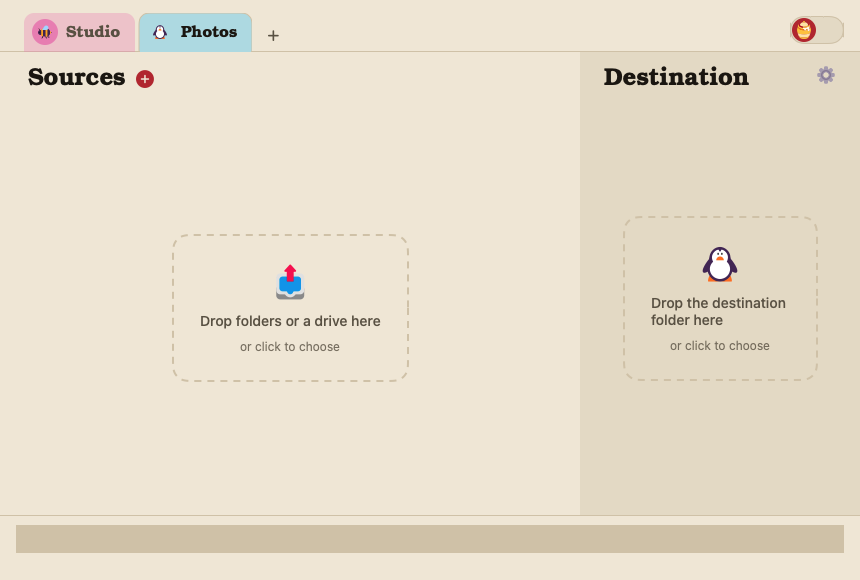
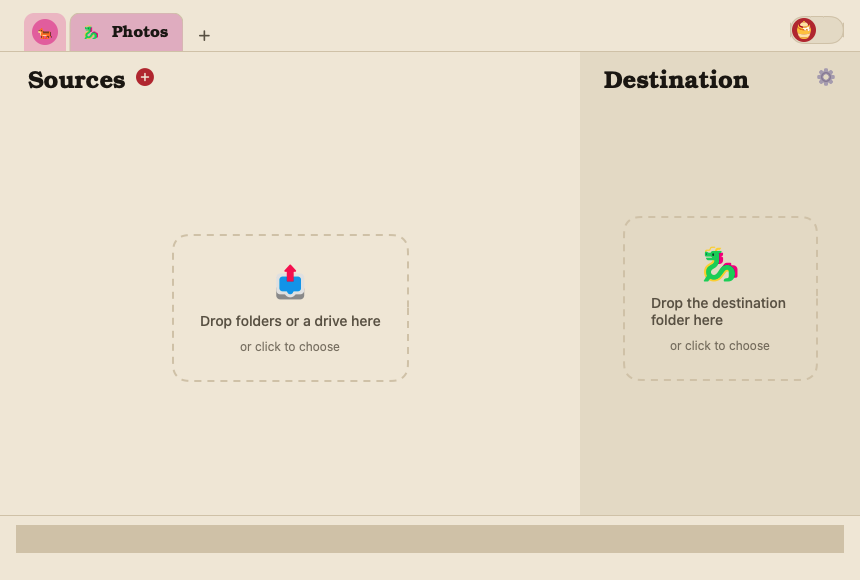
Archivist 0.0.13 — Tidier tabs and settings, biggest folders first, richer colours.

diff --git a/Archivist/JobView.swift b/Archivist/JobView.swift
@@ -48,7 +48,7 @@ struct JobView: View {
                             .contentShape(Rectangle())
                             .onTapGesture { showingSettings = false }   // a click outside closes it
                         SettingsSheet(view: self, close: { showingSettings = false })
-                            .frame(width: min(760, g.size.width - 32), height: min(700, g.size.height - 32))   // never hangs past the window
+                            .frame(width: min(560, g.size.width - 32), height: min(700, g.size.height - 32))   // never hangs past the window
                             .clipShape(RoundedRectangle(cornerRadius: 12))
                             .shadow(color: .black.opacity(0.25), radius: 20, y: 6)
                     }
@@ -110,6 +110,16 @@ struct JobView: View {
             if comps.count > 2, comps[1] == "Volumes", !FileManager.default.fileExists(atPath: "/Volumes/" + comps[2]) { return .driveMissing }
             return .folderMissing
         }.value
+    }
+
+    /// Biggest first (measured size), Exclude rows last; ones not measured yet keep their place.
+    var sortedSources: [Source] {
+        let j = job
+        return j.sources.enumerated().sorted { a, b in
+            if a.element.skip != b.element.skip { return !a.element.skip }   // Exclude rows at the bottom
+            let x = surveys[a.element.id]?.bytes ?? -1, y = surveys[b.element.id]?.bytes ?? -1
+            return x != y ? x > y : a.offset < b.offset
+        }.map(\.element)
     }
 
     /// When the sources were last walked: rechecks from file events and returning to the app wait 2 minutes.
@@ -228,7 +238,7 @@ struct SourcesPane: View {
         let job = view.job
         let total = job.sources.filter { !$0.skip }.compactMap { view.surveys[$0.id]?.bytes }.reduce(0, +)
         VStack(alignment: .leading, spacing: 0) {
-            HStack(alignment: .firstTextBaseline) {
+            HStack(alignment: .center) {   // centred in a fixed row, like Destination's: the titles' tops line up
                 Text("Sources").font(Typeface.title(24)).foregroundStyle(Palette.ink)
                 AddButton(view: view)
                 Spacer()
@@ -237,6 +247,7 @@ struct SourcesPane: View {
                         .font(Typeface.text(13)).foregroundStyle(Palette.soft)
                 }
             }
+            .frame(height: 30)
             .padding(.horizontal, 28)
             .frame(height: Header.height, alignment: .bottom).padding(.bottom, Header.below)   // same box as Destination's
 
@@ -244,11 +255,17 @@ struct SourcesPane: View {
                 DropHint(text: "Drop folders or a drive here", action: view.chooseFolders)
                     .frame(maxWidth: .infinity, maxHeight: .infinity)
             } else {
-                ThinScroll {
-                    VStack(spacing: 0) {
-                        ForEach(job.sources) { s in
-                            SourceRow(view: view, source: s)
-                            Rectangle().fill(Palette.rule).frame(height: 1).padding(.leading, 76)
+                GeometryReader { g in
+                    // More rows than fit: stretch them a little so a whole number fills the view and the
+                    // last one's line meets the bottom bar (no sliver of a gap above it).
+                    let natural: CGFloat = 64, fit = max(1, (g.size.height / natural).rounded(.down))
+                    let rowH: CGFloat? = CGFloat(job.sources.count) > fit ? g.size.height / fit : nil
+                    ThinScroll {
+                        VStack(spacing: 0) {
+                            ForEach(view.sortedSources) { s in
+                                SourceRow(view: view, source: s).frame(height: rowH.map { $0 - 1 })
+                                Rectangle().fill(Palette.rule).frame(height: 1).padding(.leading, 76)
+                            }
                         }
                     }
                 }
@@ -368,12 +385,13 @@ struct DestinationPane: View {
         let d = view.drive(job.destination)
         let needed = job.sources.filter { !$0.skip }.compactMap { view.surveys[$0.id] }.filter(\.compared).reduce(Int64(0)) { $0 + $1.bytesToCopy }
         VStack(alignment: .leading, spacing: 0) {
-            HStack(alignment: .firstTextBaseline) {
+            HStack(alignment: .center) {
                 Text("Destination").font(Typeface.title(24)).foregroundStyle(Palette.ink)
                 Spacer()
                 Button { NotificationCenter.default.post(name: .showSettings, object: nil) } label: { Emoji(name: "gear", size: 20) }
                     .buttonStyle(.plain).help("Settings: name, picture, schedule, drive type, delete")
             }
+            .frame(height: 30)
             .frame(height: Header.height, alignment: .bottom).padding(.bottom, Header.below)   // same box as Sources'
 
             if let path = job.destination, view.destinationState != .present {
@@ -555,7 +573,7 @@ struct BottomBar: View {
         let job = view.job
         // Real sizes only: until every source's size is known, a plain track instead of made-up chunks.
         let known = job.sources.filter { !$0.skip }.allSatisfy { view.surveys[$0.id] != nil }
-        let chunks = known ? job.sources.filter { !$0.skip }.map { (s: $0, b: max(view.surveys[$0.id]?.bytes ?? 1, 1)) } : []
+        let chunks = known ? view.sortedSources.filter { !$0.skip }.map { (s: $0, b: max(view.surveys[$0.id]?.bytes ?? 1, 1)) } : []
         let total = max(chunks.reduce(Int64(0)) { $0 + $1.b }, 1)
         TimelineView(.periodic(from: .now, by: view.runner.running && view.runner.remaining(at: .now) == nil ? 0.25 : 1)) { tl in
             let r = view.runner
@@ -756,20 +774,22 @@ struct SettingsSheet: View {
                         .buttonStyle(.plain).foregroundStyle(Palette.soft).help("Close")
                 }
 
-                HStack(alignment: .top, spacing: 28) {
-                    section("Picture") {
-                        LazyVGrid(columns: Array(repeating: GridItem(.fixed(34), spacing: 4), count: 8), spacing: 4) {
+                HStack(alignment: .top, spacing: 32) {
+                    section("Icon") {
+                        LazyVGrid(columns: Array(repeating: GridItem(.fixed(32), spacing: 4, alignment: .leading), count: 7),
+                                  alignment: .leading, spacing: 4) {
                             ForEach(Job.icons, id: \.self) { n in
                                 Button { view.edit { $0.icon = n; $0.lookChosen = true } } label: {
-                                    Emoji(name: n, size: 22).frame(width: 34, height: 34)
+                                    Emoji(name: n, size: 21).frame(width: 32, height: 32)
                                         .background(Circle().strokeBorder(n == job.icon ? Palette.ink : .clear, lineWidth: 2))
                                 }.buttonStyle(.plain)
                             }
                         }
+                        .fixedSize()
                     }
-                    .frame(maxWidth: .infinity, alignment: .leading)
-                    section("Colour") {
-                        LazyVGrid(columns: Array(repeating: GridItem(.fixed(26), spacing: 10), count: 8), spacing: 10) {
+                    section("Background") {
+                        LazyVGrid(columns: Array(repeating: GridItem(.fixed(26), spacing: 10, alignment: .leading), count: 5),
+                                  alignment: .leading, spacing: 10) {
                             ForEach(Nippon.colors, id: \.hex) { c in
                                 Button { view.edit { $0.color = c.hex; $0.lookChosen = true } } label: {
                                     Circle().fill(Nippon.color(c.hex)).frame(width: 26, height: 26)
@@ -777,11 +797,11 @@ struct SettingsSheet: View {
                                 }.buttonStyle(.plain).help(c.name)
                             }
                         }
+                        .fixedSize()
                     }
-                    .frame(maxWidth: .infinity, alignment: .leading)
                 }
 
-                HStack(alignment: .top, spacing: 28) {
+                HStack(alignment: .top, spacing: 32) {
                     VStack(alignment: .leading, spacing: 22) {
                         section("Schedule") { ScheduleChooser(view: view) }
                         section("Threads") {
@@ -792,18 +812,23 @@ struct SettingsSheet: View {
                             .labelsHidden().fixedSize()
                         }
                     }
-                    .frame(maxWidth: .infinity, alignment: .leading)
+                    .fixedSize()
                     VStack(alignment: .leading, spacing: 22) {
                         section("Earlier versions") {
                             Toggle("Keep deleted files", isOn: Binding(get: { job.keepDeleted }, set: { v in view.edit { $0.keepDeleted = v } }))
-                            Toggle("Keep earlier versions of changed files", isOn: Binding(get: { job.keepChanged }, set: { v in view.edit { $0.keepChanged = v } }))
+                            Toggle("Keep earlier versions", isOn: Binding(get: { job.keepChanged }, set: { v in view.edit { $0.keepChanged = v } }))
                             HStack(spacing: 8) {
                                 Text("Remove after").foregroundStyle(Palette.soft)
                                 Picker("", selection: Binding(get: { job.keepDays ?? 0 }, set: { v in view.edit { $0.keepDays = v == 0 ? nil : v } })) {
                                     Text("30 days").tag(30); Text("90 days").tag(90); Text("1 year").tag(365); Text("Never").tag(0)
                                 }.labelsHidden().fixedSize()
                             }
-                            Toggle("Make room when the drive is nearly full (oldest first)", isOn: Binding(get: { job.makeRoom }, set: { v in view.edit { $0.makeRoom = v } }))
+                            Toggle(isOn: Binding(get: { job.makeRoom }, set: { v in view.edit { $0.makeRoom = v } })) {
+                                VStack(alignment: .leading, spacing: 1) {
+                                    Text("Make room when drive is full")
+                                    Text("Oldest first").font(Typeface.text(11.5)).foregroundStyle(Palette.soft)
+                                }
+                            }
                         }
                         section("Destination drive type") {
                             Picker("", selection: Binding(get: { job.destinationKind?.rawValue ?? "auto" },
@@ -815,7 +840,7 @@ struct SettingsSheet: View {
                             .pickerStyle(.radioGroup).labelsHidden()
                         }
                     }
-                    .frame(maxWidth: .infinity, alignment: .leading)
+                    .fixedSize()
                 }
 
                 VStack(spacing: 8) {

diff --git a/Archivist/ArchivistApp.swift b/Archivist/ArchivistApp.swift
@@ -81,7 +81,7 @@ struct TitleStrip: View {
     var drawn = false   // snapshots: no traffic lights to clear
     var previewUpdate: UpdateInfo? = nil   // snapshots: show the pill
     @State private var firstShown: Job.ID?
-    private static let roomy = 5   // more backups than this: the others shrink to their picture, arrows appear
+    private static let roomy = 12   // more backups than this: arrows scroll the tabs
 
     var body: some View {
         let many = store.jobs.count > Self.roomy
@@ -89,7 +89,7 @@ struct TitleStrip: View {
             if many { arrow("chevron.left", by: -1) }
             ScrollView(.horizontal, showsIndicators: false) {
                 HStack(alignment: .bottom, spacing: 4) {
-                    ForEach(store.jobs) { job in tab(job, compact: many && job.id != selection).id(job.id) }
+                    ForEach(store.jobs) { job in tab(job, compact: job.id != selection).id(job.id) }   // only the open tab shows its name
                 }
                 .scrollTargetLayout()
             }
@@ -111,7 +111,7 @@ struct TitleStrip: View {
         .padding(.top, drawn ? 0 : 28)        // under the window's traffic lights, so the left edge can line up
         .frame(height: drawn ? 52 : 80, alignment: .bottom)
         .fixedSize(horizontal: false, vertical: true)
-        .background(alignment: .bottom) { Rectangle().fill(Palette.rule).frame(height: 1) }   // under the tabs: the open one covers it
+        .overlay(alignment: .bottom) { Rectangle().fill(Palette.rule).frame(height: 1) }   // drawn over the tabs: their bottom edge
     }
 
     /// A folder tab: rounded on top, square at the bottom, standing on the hairline. The open one is
@@ -127,7 +127,7 @@ struct TitleStrip: View {
                     if running, let r = store.runners[job.id] {
                         Circle().trim(from: 0, to: max(0.03, r.fraction(at: .now)))
                             .stroke(Palette.accent, style: StrokeStyle(lineWidth: 2.5, lineCap: .round))
-                            .rotationEffect(.degrees(-90)).padding(-3)
+                            .rotationEffect(.degrees(-90)).padding(1)   // hugs the picture
                     }
                 }
                 .help(running ? "Backing up" : "")
@@ -135,7 +135,7 @@ struct TitleStrip: View {
                 Text(job.title.isEmpty ? "Untitled" : job.title)
                     .font(Typeface.title(16))
                     .offset(y: -1.5)   // Bonum's letters sit low in their line: centre them on the picture
-                    .foregroundStyle(on ? Palette.ink : Palette.soft)
+                    .foregroundStyle(Color(red: 0.13, green: 0.11, blue: 0.09))   // dark on the light tab, in light and dark mode
                     .lineLimit(1)
                     .fixedSize()
             }
@@ -143,9 +143,6 @@ struct TitleStrip: View {
         .padding(.leading, 8).padding(.trailing, compact ? 8 : 14).padding(.top, 6).padding(.bottom, 7)
         .background(shape.fill(on ? Nippon.soft(job.color) : Nippon.soft(job.color).opacity(0.35)))
         .overlay(shape.stroke(on ? Palette.rule : .clear, lineWidth: 1))
-        .overlay(alignment: .bottom) {   // the open tab has no line under it
-            if on { Rectangle().fill(Nippon.soft(job.color)).frame(height: 2).padding(.horizontal, 1).offset(y: 1) }
-        }
         .zIndex(on ? 1 : 0)
         .contentShape(shape)
         .onTapGesture { selection = job.id }

diff --git a/Archivist/Job.swift b/Archivist/Job.swift
@@ -185,7 +185,13 @@ final class JobStore {
             let live = job.sources.filter { !$0.skip }.compactMap { surveys[$0.id] }.filter(\.compared)
             planned = (live.reduce(0) { $0 + $1.toCopy }, live.reduce(0) { $0 + $1.bytesToCopy })
         }
-        runner(for: id).start(job, planned: planned) { [weak self] summary, state, past, total in
+        // Copied in the order shown: biggest folder first, so the bar fills left to right.
+        var ordered = job
+        ordered.sources = job.sources.enumerated().sorted { (a: (offset: Int, element: Source), b: (offset: Int, element: Source)) in
+            let x = surveys[a.element.id]?.bytes ?? -1, y = surveys[b.element.id]?.bytes ?? -1
+            return x != y ? x > y : a.offset < b.offset
+        }.map { $0.element }
+        runner(for: id).start(ordered, planned: planned) { [weak self] summary, state, past, total in
             guard let self, let i = self.jobs.firstIndex(where: { $0.id == id }) else { return }
             var j = self.jobs[i]
             j.lastResult = summary; j.lastState = state; j.lastPast = past ?? j.lastPast; j.lastRun = Date(); j.lastBytes = total

diff --git a/Archivist/Snapshot.swift b/Archivist/Snapshot.swift
@@ -66,7 +66,7 @@ enum Snapshot {
             ("update", window(studio, Runner(), surveys, drives, space: true, update: update)),
         ]
         let sheets: [(String, AnyView, CGSize)] = [
-            ("settings", AnyView(SettingsSheet(view: JobView(storeOverride: store, jobID: studio.id, runnerOverride: Runner(), destinationState: .present, drives: drives, presetSurveys: surveys, space: nil, preset: true))), CGSize(width: 760, height: 700)),
+            ("settings", AnyView(SettingsSheet(view: JobView(storeOverride: store, jobID: studio.id, runnerOverride: Runner(), destinationState: .present, drives: drives, presetSurveys: surveys, space: nil, preset: true))), CGSize(width: 560, height: 760)),
             ("update-sheet", AnyView(UpdateSheet(update: update, current: "0.0.1", onLater: {}, onInstall: {})), CGSize(width: 480, height: 420)),
         ]
         for (name, dark) in [("dark", true), ("light", false)] {

diff --git a/Archivist/Theme.swift b/Archivist/Theme.swift
@@ -53,7 +53,7 @@ enum Nippon {
     ]
     /// A solid soft version (the colour mixed with white): the same in light and dark, never
     /// a see-through tint that a dark page muddies.
-    static func soft(_ hex: String, white: Double = 0.45) -> Color {
+    static func soft(_ hex: String, white: Double = 0.3) -> Color {   // 0.45 read as pastel; 0.3 keeps the colour
         let v = UInt32(hex.dropFirst(), radix: 16) ?? 0x5DAC81
         func mix(_ c: UInt32) -> Double { Double(c & 0xff) / 255 * (1 - white) + white }
         return Color(red: mix(v >> 16), green: mix(v >> 8), blue: mix(v))
